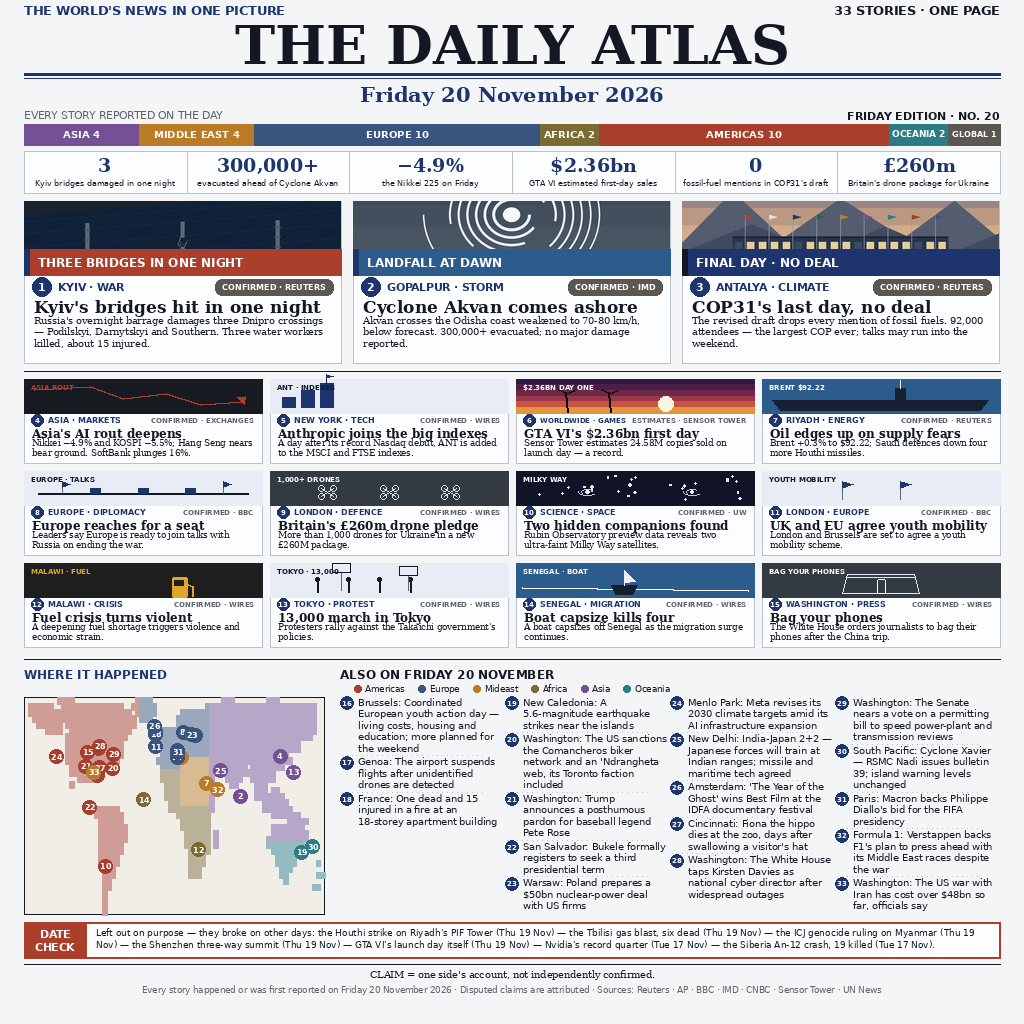
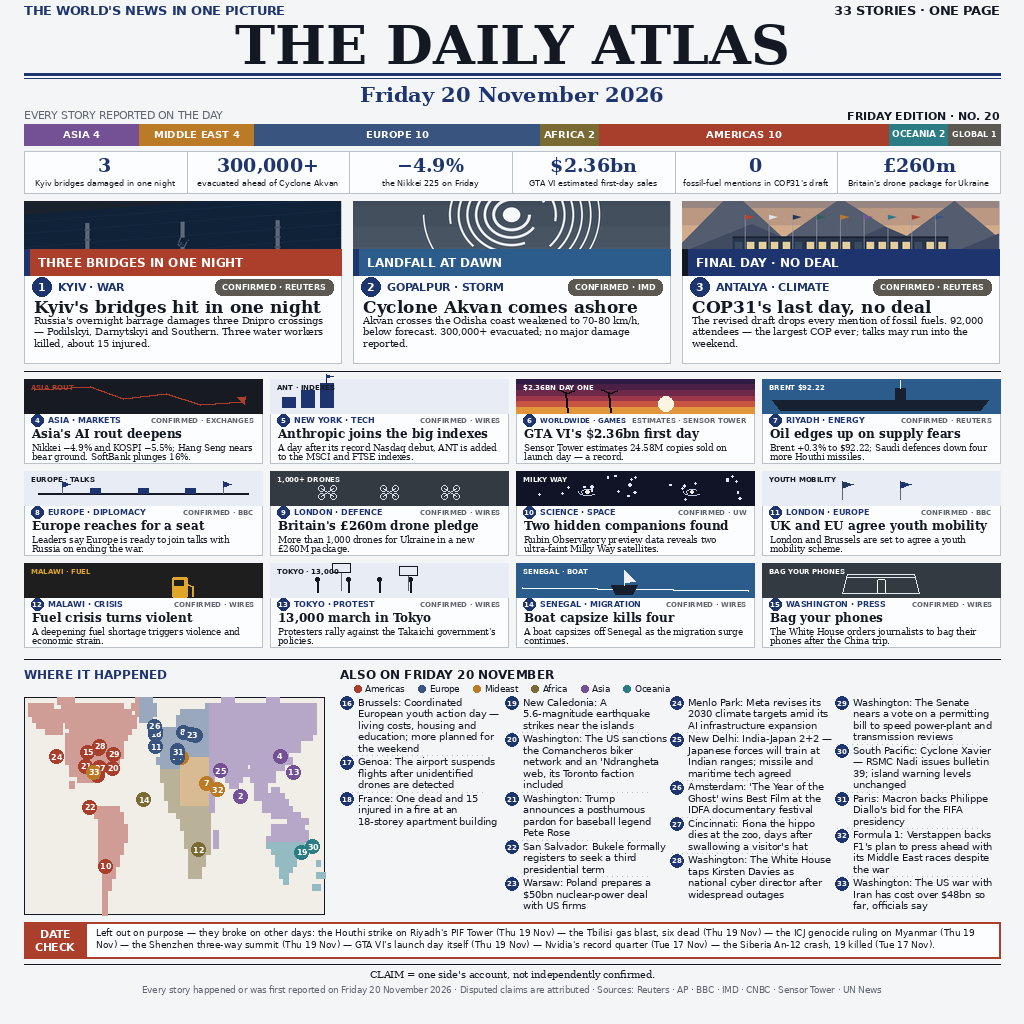
Fix grid headline/summary overlap (separation assertion); re-render

diff --git a/draw.py b/draw.py
@@ -72,6 +72,7 @@ CLIPS = []
 DRAWN_NUMS = set()
 DRAWN_ART = set()
 SOURCE_CHIPS = 0
+GRID_SEP = {}
 
 
 def textlen(t, font):
@@ -719,10 +720,25 @@ def draw_grid(d, gy):
         SOURCE_CHIPS += 1
 
         DRAWN_NUMS.add(st["num"])
-        y = block(d, x + 8, y0 + 47, 222, st["head"], F(SERIF_B, 12), 12.5,
-                  y0 + 72, fill=INK)
-        block(d, x + 8, y, 222, st["summ"], F(SERIF, 8.5), 9.5, y0 + 83,
+        hfont = F(SERIF_B, 12)
+        hlines = wrap(st["head"], hfont, 222)
+        h_asc, h_desc = hfont.getmetrics()
+        head_bottom = y0 + 47 + (len(hlines) - 1) * 12.5 + h_asc + h_desc
+        block(d, x + 8, y0 + 47, 222, st["head"], hfont, 12.5,
+              y0 + 72, fill=INK)
+        # the summary must begin below the headline's real last line
+        summ_top = max(y0 + 60, head_bottom + 2)
+        ssize = 8.5
+        while True:
+            sfont = F(SERIF, ssize)
+            slh = ssize + 1.0
+            nsl = len(wrap(st["summ"], sfont, 222))
+            if summ_top + nsl * slh <= y0 + 83 + 0.01 or ssize <= 7.5:
+                break
+            ssize -= 0.5
+        block(d, x + 8, summ_top, 222, st["summ"], sfont, slh, y0 + 83,
               fill=INK)
+        GRID_SEP[st["num"]] = (round(head_bottom, 1), round(summ_top, 1))
 
 
 # ---------------------------------------------------------------- map
@@ -921,6 +937,9 @@ def main():
     assert n_cells == 6, "stat cells: %d" % n_cells
     assert n_dc <= 2
     assert SOURCE_CHIPS == 15, "source chips: %d" % SOURCE_CHIPS
+    assert len(GRID_SEP) == 12, "grid separation records: %d" % len(GRID_SEP)
+    bad = {n: v for n, v in GRID_SEP.items() if not v[0] < v[1]}
+    assert not bad, "headline/summary collision on grid cards: %r" % (bad,)
 
     img.save(OUT, "PNG", optimize=True)
     size = os.path.getsize(OUT)
@@ -936,7 +955,7 @@ def main():
     print("band_h %.1f, dc_y %.1f, footer bottom %.1f"
           % (band_h, dc_y, dc_y + 42))
     print("wrote %s  %d bytes  (%.1f KiB)" % (OUT, size, size / 1024.0))
-    print("Assertion summary: no CLIP failures; all 33 story numbers drawn; three featured artworks (bridges, cyclone, cop31) loaded and pasted; region bar's 7 segments drawn; stat strip's 6 cells drawn; DATE CHECK text drawn in at most 2 lines (%d lines); source chip drawn for each of the 15 card stories (%d chips)." % (n_dc, SOURCE_CHIPS))
+    print("Assertion summary: no CLIP failures; all 33 story numbers drawn; three featured artworks (bridges, cyclone, cop31) loaded and pasted; region bar's 7 segments drawn; stat strip's 6 cells drawn; DATE CHECK text drawn in at most 2 lines (%d lines); source chip drawn for each of the 15 card stories (%d chips); headline/summary separation assertion passed for all %d grid cards." % (n_dc, SOURCE_CHIPS, len(GRID_SEP)))
 
 
 if __name__ == "__main__":
